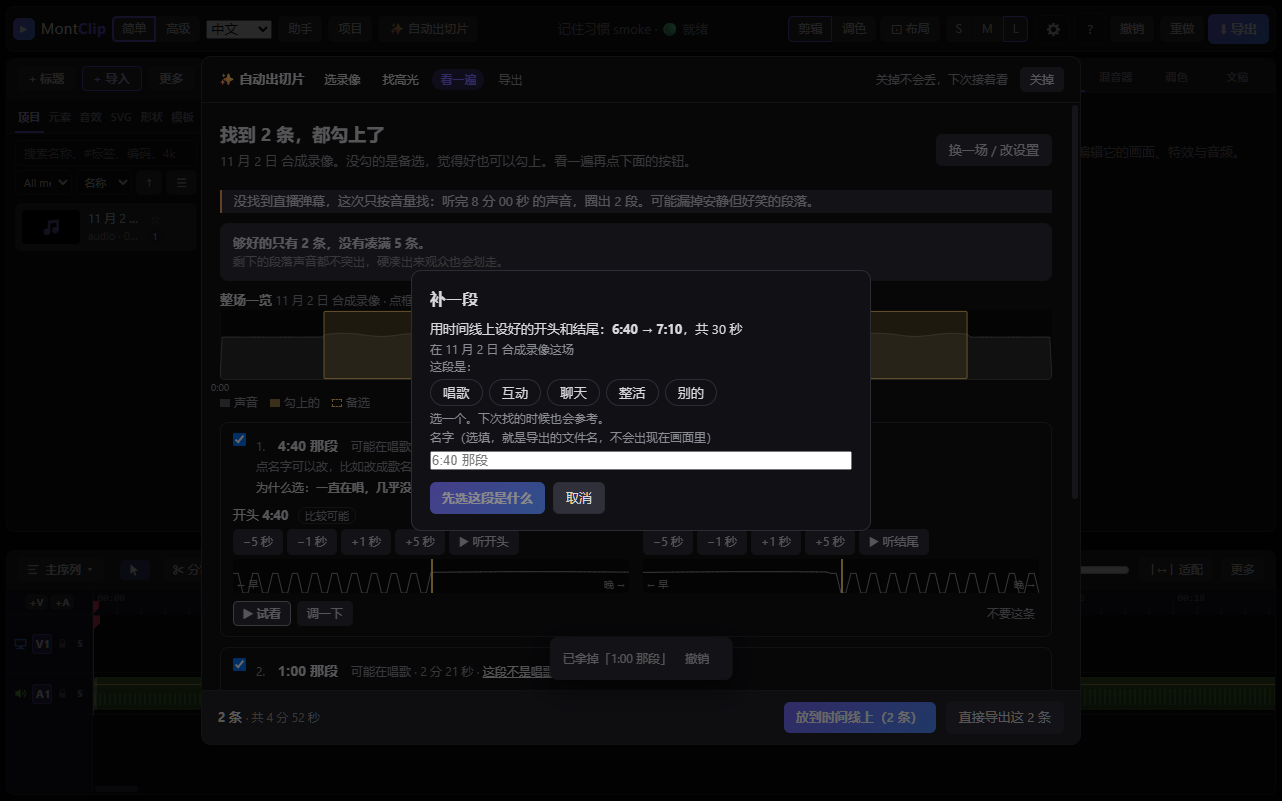
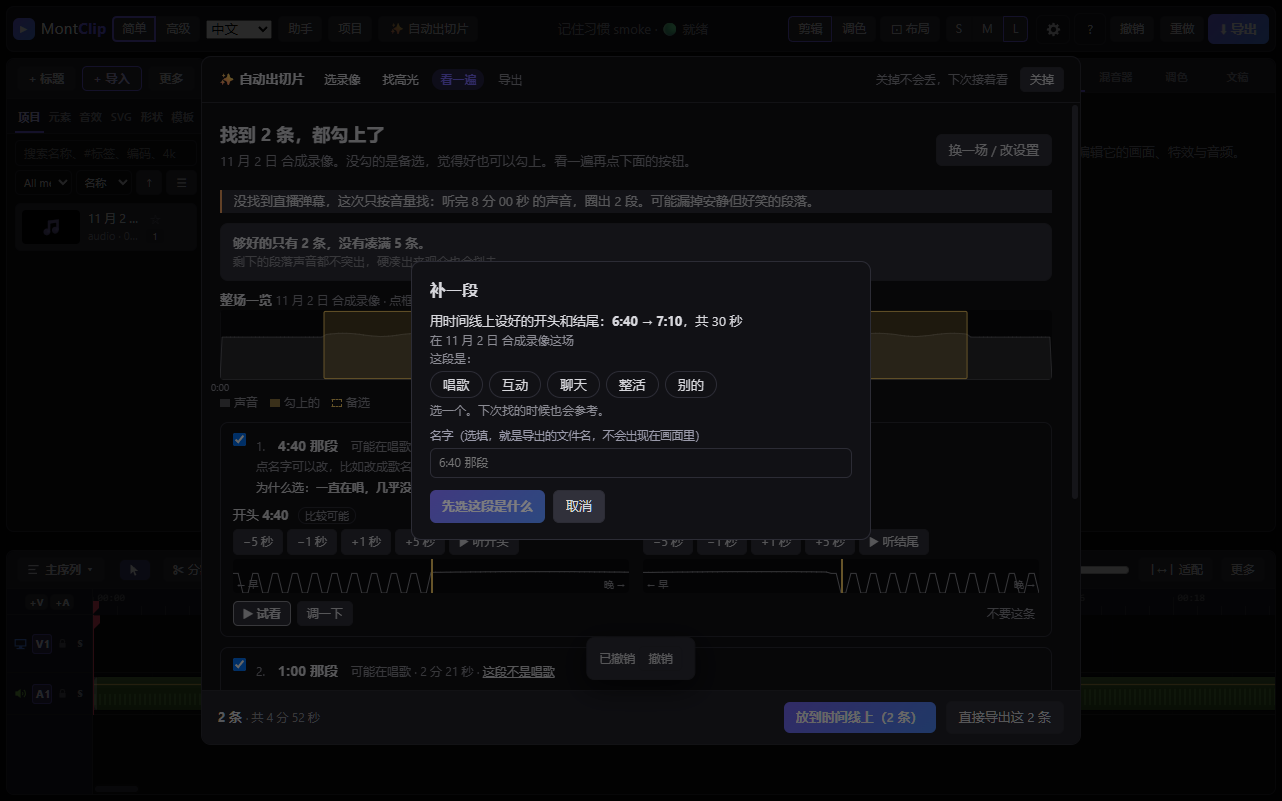
docs(validation): corrections-ui smoke output and pictures of its own window after VV's review of 12f4f21 — two new pictures (the part marked 不是唱歌 back as 热闹的一段 你改的; the card added with 补一段 back after searching again); the smoke takes them

Changed region(s): [[0.312, 0.3121, 0.6864, 0.6866], [0.4368, 0.8115, 0.5616, 0.8427]]

diff --git a/docs/validation/2026-11-03-corrections-ui/README.md b/docs/validation/2026-11-03-corrections-ui/README.md
@@ -1,6 +1,6 @@
 # 记住我的剪辑习惯: the v12 interface (evidence)
 
-Code at `4202c2e` (JJ's final copy; first taken at `3e3b324`). Windows, fresh profile, hidden offscreen window, synthetic sound only; the pictures are
+Code at `4ffc6f1` (VV's review of 12f4f21; first taken at `3e3b324`).
 `capturePage` of the smoke's own window, no desktop capture.
 
     MONTCLIP_SHOTS_OUT=<this folder> electron desktop/corrections-ui-smoke.cjs --montclip-smoke --user-data-dir=<fresh>
@@ -9,3 +9,8 @@ Code at `4202c2e` (JJ's final copy; first taken at `3e3b324`). Windows, fresh pr
 - `corrections-add-dialog.png` — 补一段 from IN–OUT, before a kind is picked.
 - `corrections-habit.png` — the next search after five song starts moved 4 s earlier: the habit line and the evidence.
 - `corrections-learn-page.png` — the page 记住我的剪辑习惯 opened from 去设置.
+- `corrections-not-song-back.png` — the same recording searched again: the part marked 不是唱歌 back as 热闹的一段, 你改的, with the reason.
+- `corrections-added-back.png` — after 〔换一场 / 改设置〕 and searching again: the card added with 补一段 back, 你补的, with its name.
+
+The smoke also checks: 〔撤销〕 and Ctrl+Z redraw the card and the footer (and Ctrl+Z never reaches the timeline); every disabled
+`.btn` in the dialogs and on the settings page is faded with no hand cursor; 补一段's name box is the Export dialog's text box.
